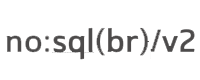
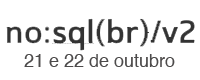
description and supporters in home

Changed region(s): [[0.03, 0.225, 0.99, 0.85], [0.12, 0.675, 0.21, 0.85]]

diff --git a/index.html b/index.html
@@ -37,5 +37,30 @@
     </div>
     <!-- /header -->
 
+    <!-- content -->
+    <div id="content">
+      <div class="description">
+        <h1>Título do evento, descrição</h1>
+        <p>
+          Morbi non erat non ipsum pharetra tempus. Donec orci. Proin in ante. Pellentesque sit amet purus. Cras egestas diam sed ante. Etiam imperdiet urna sit amet risus. Donec ornare arcu id erat. Aliquam ultrices scelerisque sem. In elit nulla, molestie vel, ornare sit amet, interdum vel, mauris. Etiam dignissim imperdiet metus.
+        </p>
+        <p>
+          Morbi non erat non ipsum pharetra tempus. Donec orci. Proin in ante. Pellentesque sit amet purus. Cras egestas diam sed ante. Etiam imperdiet urna sit amet risus. Donec ornare arcu id erat. Aliquam ultrices scelerisque sem. In elit nulla, molestie vel, ornare sit amet, interdum vel, mauris. Etiam dignissim imperdiet metus.
+        </p>
+        <p>
+          Morbi non erat non ipsum pharetra tempus. Donec orci. Proin in ante. Pellentesque sit amet purus. Cras egestas diam sed ante. Etiam imperdiet urna sit amet risus. Donec ornare arcu id erat. Aliquam ultrices scelerisque sem. In elit nulla, molestie vel, ornare sit amet, interdum vel, mauris. Etiam dignissim imperdiet metus.
+        </p>
+        <p>
+          Morbi non erat non ipsum pharetra tempus. Donec orci. Proin in ante. Pellentesque sit amet purus. Cras egestas diam sed ante. Etiam imperdiet urna sit amet risus. Donec ornare arcu id erat. Aliquam ultrices scelerisque sem. In elit nulla, molestie vel, ornare sit amet, interdum vel, mauris. Etiam dignissim imperdiet metus.
+        </p>
+      </div>
+      <div class="supporters">
+
+      </div>
+
+      <br class="clearfix" />
+    </div>
+    <!-- /content -->
+
   </body>
 </html>

diff --git a/stylesheets/common/style.css b/stylesheets/common/style.css
@@ -11,6 +11,8 @@
  * ----------------------------------------------
  *
  * 01 - Global
+ * 02 - Header
+ * 03 - Content
  *
  * -----------------------------------------------*/
 
@@ -18,8 +20,10 @@
  * 01 - Global
  * ----------------------------------------------*/
 * { margin: 0; padding: 0; outline: none; }
-body { background: url(../../images/bg/body.png); font: 15px/150% "Helvetica", Arial, Verdana; color: #666; text-shadow: 0 1px 0 #fff; }
+body { background: url(../../images/bg/body.png); font: 15px/150% "Helvetica", Arial, Verdana; color: #333; text-shadow: 0 1px 0 #fff; }
 a { text-decoration: none; color: #666; }
+.clearfix { clear: both; display: block; }
+h1 { font: 22px/100% 'courier', Helvetica, Arial; color: #000; margin-bottom: 10px; letter-spacing: -2px; }
 
 
 /*
@@ -31,3 +35,10 @@ div#header div.nav a { width: 150px; height: 42px; padding-top: 28px; float: lef
 div#header div.nav a:hover { background: url(../../images/nav/header.png) bottom no-repeat; }
 div#header div.brand { width: 200px; height: 80px; float: left; }
 
+/*
+ * 03 - Content
+ * ----------------------------------------------*/
+div#content { width: 1000px; padding: 15px 0; margin: auto; border-bottom: solid 1px red; }
+div#content div.description { width: 680px; padding: 0 10px; float: left; border-bottom: solid 1px lime; }
+div#content div.description p { display: block; margin-bottom: 10px; }
+div#content div.supporters { width: 300px; height: 400px; float: left; background: url(../../images/bg/supporters.png) no-repeat; }
